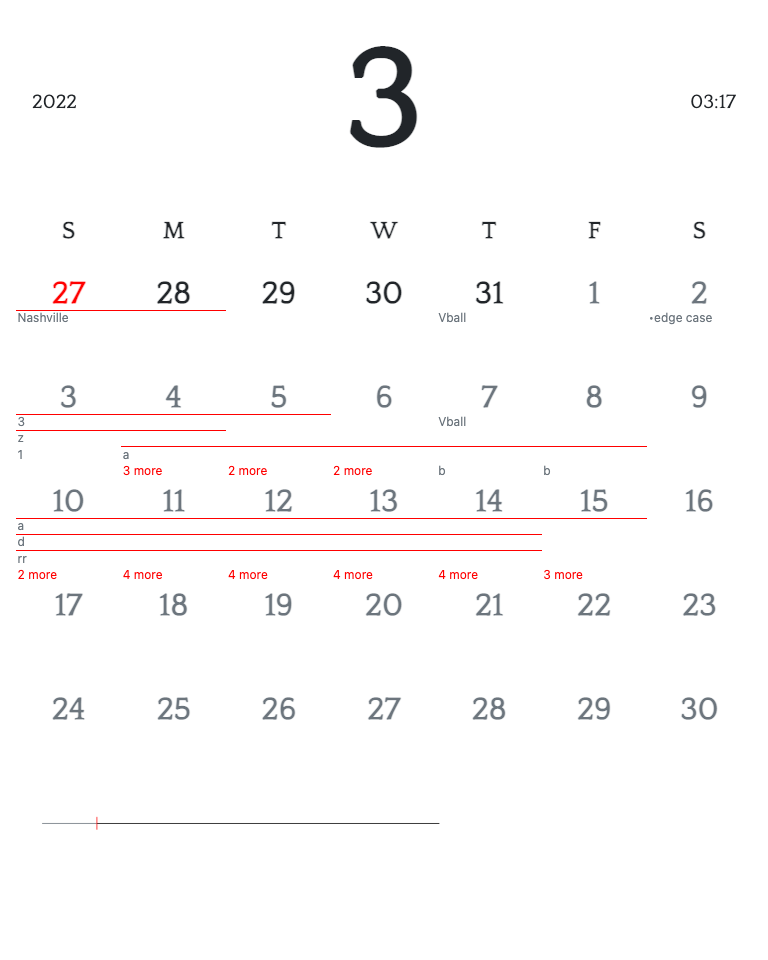
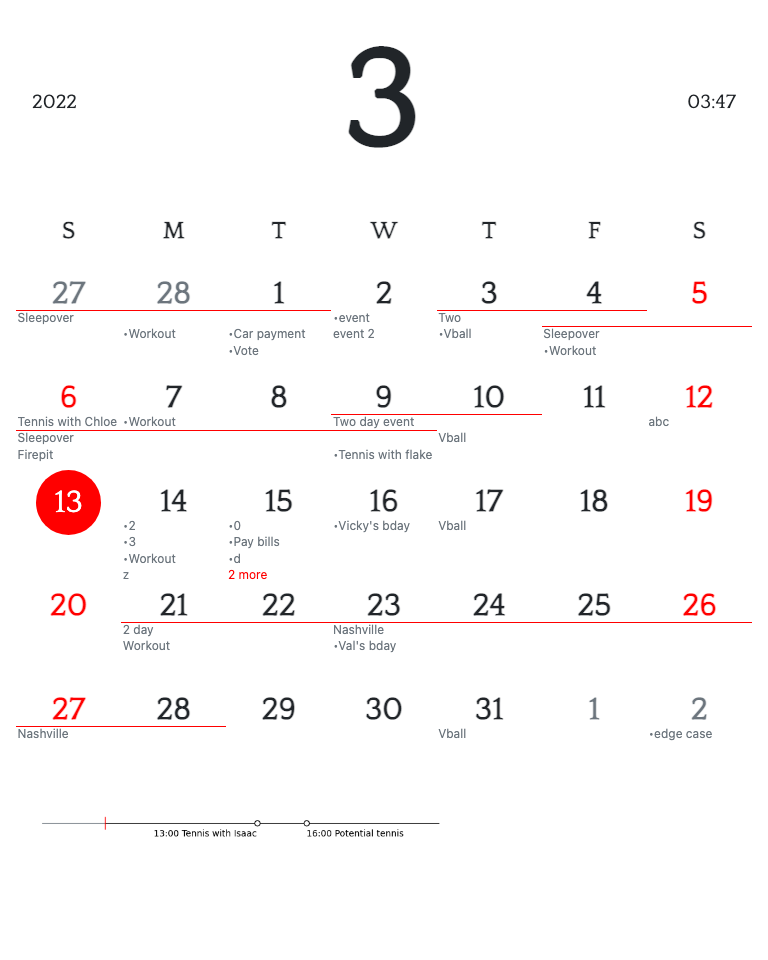
render 5 weeks and the sunday previous to the 1st of the month

diff --git a/render/calendar.html b/render/calendar.html
@@ -13,130 +13,175 @@
              style="display:flex;justify-content:space-between;">
             <div class="time-info">2022</div>
             <h3 class="month font-weight-bold mb-0 text-uppercase">3</h3>
-            <div class="time-info">03:17</div>
+            <div class="time-info">03:47</div>
         </div>
         <!-- Days of week -->
-        <ol class="day-names list-unstyled text-center"><li class="font-weight-bold text-uppercase">S</li>
-<li class="font-weight-bold text-uppercase">M</li>
-<li class="font-weight-bold text-uppercase">T</li>
-<li class="font-weight-bold text-uppercase">W</li>
-<li class="font-weight-bold text-uppercase">T</li>
-<li class="font-weight-bold text-uppercase">F</li>
-<li class="font-weight-bold text-uppercase">S</li>
-</ol>
+        <ol class="day-names list-unstyled text-center">
+            <li class="font-weight-bold text-uppercase">S</li>
+            <li class="font-weight-bold text-uppercase">M</li>
+            <li class="font-weight-bold text-uppercase">T</li>
+            <li class="font-weight-bold text-uppercase">W</li>
+            <li class="font-weight-bold text-uppercase">T</li>
+            <li class="font-weight-bold text-uppercase">F</li>
+            <li class="font-weight-bold text-uppercase">S</li>
+        </ol>
         <!-- Calendar and events -->
-        <ol class="days list-unstyled"><li><div class="date" style="color:red;">27</div>
-<div class="event" style="border-top:1px solid red;">Nashville</div>
-</li>
-<li><div class="date">28</div>
-<div class="event text-hidden" style="border-top:1px solid red;">Nashville</div>
-</li>
-<li><div class="date">29</div>
-</li>
-<li><div class="date">30</div>
-</li>
-<li><div class="date">31</div>
-<div class="event">Vball</div>
-</li>
-<li><div class="date text-muted">1</div>
-</li>
-<li><div class="date text-muted">2</div>
-<div class="event text-muted">•edge case</div>
-</li>
-<li><div class="date text-muted">3</div>
-<div class="event" style="border-top:1px solid red;">3</div>
-<div class="event" style="border-top:1px solid red;">z</div>
-<div class="event text-muted">1</div>
-</li>
-<li><div class="date text-muted">4</div>
-<div class="event text-hidden" style="border-top:1px solid red;">3</div>
-<div class="event text-hidden" style="border-top:1px solid red;">z</div>
-<div class="event text-muted" style="border-top:1px solid red;">a</div>
-<div class="event" style="color:red;">3 more</li>
-<li><div class="date text-muted">5</div>
-<div class="event text-hidden" style="border-top:1px solid red;">3</div>
-<div class="event hide-all">spacer</div>
-<div class="event text-hidden" style="border-top:1px solid red;">a</div>
-<div class="event" style="color:red;">2 more</li>
-<li><div class="date text-muted">6</div>
-<div class="event hide-all">spacer</div>
-<div class="event hide-all">spacer</div>
-<div class="event text-hidden" style="border-top:1px solid red;">a</div>
-<div class="event" style="color:red;">2 more</li>
-<li><div class="date text-muted">7</div>
-<div class="event text-muted">Vball</div>
-<div class="event hide-all">spacer</div>
-<div class="event text-hidden" style="border-top:1px solid red;">a</div>
-<div class="event">b</div>
-</li>
-<li><div class="date text-muted">8</div>
-<div class="event hide-all">spacer</div>
-<div class="event hide-all">spacer</div>
-<div class="event text-hidden" style="border-top:1px solid red;">a</div>
-<div class="event">b</div>
-</li>
-<li><div class="date text-muted">9</div>
-</li>
-<li><div class="date text-muted">10</div>
-<div class="event" style="border-top:1px solid red;">a</div>
-<div class="event" style="border-top:1px solid red;">d</div>
-<div class="event" style="border-top:1px solid red;">rr</div>
-<div class="event" style="color:red;">2 more</li>
-<li><div class="date text-muted">11</div>
-<div class="event text-hidden" style="border-top:1px solid red;">a</div>
-<div class="event text-hidden" style="border-top:1px solid red;">d</div>
-<div class="event text-hidden" style="border-top:1px solid red;">rr</div>
-<div class="event" style="color:red;">4 more</li>
-<li><div class="date text-muted">12</div>
-<div class="event text-hidden" style="border-top:1px solid red;">a</div>
-<div class="event text-hidden" style="border-top:1px solid red;">d</div>
-<div class="event text-hidden" style="border-top:1px solid red;">rr</div>
-<div class="event" style="color:red;">4 more</li>
-<li><div class="date text-muted">13</div>
-<div class="event text-hidden" style="border-top:1px solid red;">a</div>
-<div class="event text-hidden" style="border-top:1px solid red;">d</div>
-<div class="event text-hidden" style="border-top:1px solid red;">rr</div>
-<div class="event" style="color:red;">4 more</li>
-<li><div class="date text-muted">14</div>
-<div class="event text-hidden" style="border-top:1px solid red;">a</div>
-<div class="event text-hidden" style="border-top:1px solid red;">d</div>
-<div class="event text-hidden" style="border-top:1px solid red;">rr</div>
-<div class="event" style="color:red;">4 more</li>
-<li><div class="date text-muted">15</div>
-<div class="event text-hidden" style="border-top:1px solid red;">a</div>
-<div class="event hide-all">spacer</div>
-<div class="event hide-all">spacer</div>
-<div class="event" style="color:red;">3 more</li>
-<li><div class="date text-muted">16</div>
-</li>
-<li><div class="date text-muted">17</div>
-</li>
-<li><div class="date text-muted">18</div>
-</li>
-<li><div class="date text-muted">19</div>
-</li>
-<li><div class="date text-muted">20</div>
-</li>
-<li><div class="date text-muted">21</div>
-</li>
-<li><div class="date text-muted">22</div>
-</li>
-<li><div class="date text-muted">23</div>
-</li>
-<li><div class="date text-muted">24</div>
-</li>
-<li><div class="date text-muted">25</div>
-</li>
-<li><div class="date text-muted">26</div>
-</li>
-<li><div class="date text-muted">27</div>
-</li>
-<li><div class="date text-muted">28</div>
-</li>
-<li><div class="date text-muted">29</div>
-</li>
-<li><div class="date text-muted">30</div>
-</li>
+        <ol class="days list-unstyled">
+            <li>
+                <div class="date text-muted">27</div>
+                <div class="event" style="border-top:1px solid red;">Sleepover</div>
+            </li>
+            <li>
+                <div class="date text-muted">28</div>
+                <div class="event text-hidden" style="border-top:1px solid red;">Sleepover</div>
+                <div class="event text-muted">•Workout</div>
+            </li>
+            <li>
+                <div class="date">1</div>
+                <div class="event text-hidden" style="border-top:1px solid red;">Sleepover</div>
+                <div class="event">•Car payment</div>
+                <div class="event">•Vote</div>
+            </li>
+            <li>
+                <div class="date">2</div>
+                <div class="event">•event</div>
+                <div class="event">event 2</div>
+            </li>
+            <li>
+                <div class="date">3</div>
+                <div class="event" style="border-top:1px solid red;">Two</div>
+                <div class="event">•Vball</div>
+            </li>
+            <li>
+                <div class="date">4</div>
+                <div class="event text-hidden" style="border-top:1px solid red;">Two</div>
+                <div class="event" style="border-top:1px solid red;">Sleepover</div>
+                <div class="event">•Workout</div>
+            </li>
+            <li>
+                <div class="date" style="color:red;">5</div>
+                <div class="event hide-all">spacer</div>
+                <div class="event text-hidden" style="border-top:1px solid red;">Sleepover</div>
+            </li>
+            <li>
+                <div class="date" style="color:red;">6</div>
+                <div class="event">Tennis with Chloe</div>
+                <div class="event" style="border-top:1px solid red;">Sleepover</div>
+                <div class="event">Firepit</div>
+            </li>
+            <li>
+                <div class="date">7</div>
+                <div class="event">•Workout</div>
+                <div class="event text-hidden" style="border-top:1px solid red;">Sleepover</div>
+            </li>
+            <li>
+                <div class="date">8</div>
+                <div class="event hide-all">spacer</div>
+                <div class="event text-hidden" style="border-top:1px solid red;">Sleepover</div>
+            </li>
+            <li>
+                <div class="date">9</div>
+                <div class="event" style="border-top:1px solid red;">Two day event</div>
+                <div class="event text-hidden" style="border-top:1px solid red;">Sleepover</div>
+                <div class="event">•Tennis with flake</div>
+            </li>
+            <li>
+                <div class="date">10</div>
+                <div class="event text-hidden" style="border-top:1px solid red;">Two day event</div>
+                <div class="event">Vball</div>
+            </li>
+            <li>
+                <div class="date">11</div>
+            </li>
+            <li>
+                <div class="date" style="color:red;">12</div>
+                <div class="event">abc</div>
+            </li>
+            <li>
+                <div class="datecircle">13</div>
+            </li>
+            <li>
+                <div class="date">14</div>
+                <div class="event">•2</div>
+                <div class="event">•3</div>
+                <div class="event">•Workout</div>
+                <div class="event">z</div>
+            </li>
+            <li>
+                <div class="date">15</div>
+                <div class="event">•0</div>
+                <div class="event">•Pay bills</div>
+                <div class="event">•d</div>
+                <div class="event" style="color:red;">2 more</div>
+            </li>
+            <li>
+                <div class="date">16</div>
+                <div class="event">•Vicky's bday</div>
+            </li>
+            <li>
+                <div class="date">17</div>
+                <div class="event">Vball</div>
+            </li>
+            <li>
+                <div class="date">18</div>
+            </li>
+            <li>
+                <div class="date" style="color:red;">19</div>
+            </li>
+            <li>
+                <div class="date" style="color:red;">20</div>
+            </li>
+            <li>
+                <div class="date">21</div>
+                <div class="event" style="border-top:1px solid red;">2 day</div>
+                <div class="event">Workout</div>
+            </li>
+            <li>
+                <div class="date">22</div>
+                <div class="event text-hidden" style="border-top:1px solid red;">2 day</div>
+            </li>
+            <li>
+                <div class="date">23</div>
+                <div class="event" style="border-top:1px solid red;">Nashville</div>
+                <div class="event">•Val's bday</div>
+            </li>
+            <li>
+                <div class="date">24</div>
+                <div class="event text-hidden" style="border-top:1px solid red;">Nashville</div>
+            </li>
+            <li>
+                <div class="date">25</div>
+                <div class="event text-hidden" style="border-top:1px solid red;">Nashville</div>
+            </li>
+            <li>
+                <div class="date" style="color:red;">26</div>
+                <div class="event text-hidden" style="border-top:1px solid red;">Nashville</div>
+            </li>
+            <li>
+                <div class="date" style="color:red;">27</div>
+                <div class="event" style="border-top:1px solid red;">Nashville</div>
+            </li>
+            <li>
+                <div class="date">28</div>
+                <div class="event text-hidden" style="border-top:1px solid red;">Nashville</div>
+            </li>
+            <li>
+                <div class="date">29</div>
+            </li>
+            <li>
+                <div class="date">30</div>
+            </li>
+            <li>
+                <div class="date">31</div>
+                <div class="event">Vball</div>
+            </li>
+            <li>
+                <div class="date text-muted">1</div>
+            </li>
+            <li>
+                <div class="date text-muted">2</div>
+                <div class="event text-muted">•edge case</div>
+            </li>
 </ol>
         <div style="height:210px;margin-top:-5rem;position:absolute;">
             <img src="timeline.png" style='height: 100%; object-fit: cover'>

diff --git a/maginkcal.py b/maginkcal.py
@@ -74,11 +74,14 @@ def main():
         current_time = currDatetime.strftime("%H:%M")
         logger.info("Time synchronised to {}".format(currDatetime))
         currDate = currDatetime.date()
-        calStartDate = currDate - \
-                       dt.timedelta(days=((currDate.weekday() + (7 - weekStartDay)) % 7))
+        current_month_date = dt.datetime(currDate.year, currDate.month, 1).date()
+        calStartDate = current_month_date - dt.timedelta(days=((current_month_date.weekday() + (7 - weekStartDay)) % 7))
         calEndDate = calStartDate + dt.timedelta(days=(weeks_to_display * 7 - 1))
-        calStartDate = dt.datetime(2022, 3, 27).date()
-        calEndDate = dt.datetime(2022, 4, 30).date()
+
+        # Dates used for testing ##########################
+        # calStartDate = dt.datetime(2022, 3, 27).date()  #
+        # calEndDate = dt.datetime(2022, 4, 30).date()    #
+        ###################################################
         calStartDatetime = displayTZ.localize(
             dt.datetime.combine(calStartDate, dt.datetime.min.time()))
         calEndDatetime = displayTZ.localize(
@@ -99,7 +102,8 @@ def main():
                     str(dt.datetime.now() - start))
 
         # Populate dictionary with information to be rendered on e-ink display
-        calDict = {'events': enumerated_event_list, 'calStartDate': calStartDate, 'calEndDate': calEndDate, 'today': currDate, 'lastRefresh': currDatetime,
+        calDict = {'events': enumerated_event_list, 'calStartDate': calStartDate, 'calEndDate': calEndDate,
+                   'today': currDate, 'lastRefresh': currDatetime,
                    'batteryDisplayMode': batteryDisplayMode,
                    'dayOfWeekText': dayOfWeekText, 'weekStartDay': weekStartDay, 'maxEventsPerDay': maxEventsPerDay,
                    'is24hour': is24hour, "current_time": current_time, "weeks_to_display": weeks_to_display}

diff --git a/render/render.py b/render/render.py
@@ -9,18 +9,20 @@ calendar and refreshing of the eInk display. In the future, I might choose to ge
 RPi device, while using a ESP32 or PiZero purely to just retrieve the image from a file host and update the screen.
 """
 
+import datetime
 import logging
 import pathlib
 from datetime import timedelta
+from operator import itemgetter
 from time import sleep
+
+import pytz
 from PIL import Image
 from selenium import webdriver
 from selenium.webdriver.chrome.options import Options
+
 from render.timeline import Timeline
-from operator import itemgetter
 from utils.block_list import BlockList
-import datetime
-import pytz
 
 
 class RenderHelper:
@@ -239,14 +241,13 @@ class RenderHelper:
                 cal_events_text += f"""<div class="event">{calList[i][-1]['summary']}</div>\n"""
             elif len(calList[i]) > maxEventsPerDay + 1:
                 cal_events_text += '<div class="event" style="color:red;">' + str(
-                    len(calList[i]) - maxEventsPerDay) + ' more'
+                    len(calList[i]) - maxEventsPerDay) + ' more</div>\n'
 
             cal_events_text += '</li>\n'
 
         # Append the bottom and write the file
         print(calList)
         # print(timeline_events)
-        timeline_events = []
         Timeline(timeline_events).render()
         htmlFile = open(self.currPath + '/calendar.html', "w")
         htmlFile.write(calendar_template.format(month=month_name, dayOfWeek=cal_days_of_week,

diff --git a/README.md b/README.md
@@ -8,7 +8,8 @@
 - [x] Fix ordering of multiday events in calendar view
 - [x] If four events in a day, don't show 3 events and a 1more event overflow, display all 4 instead
 - [ ] If multiday event is on maxevents + 1 of previous, the current event gets displayed on the maxevent + 1 line
-
+- [ ] If multiday event spans across weeks, it takes the lane of the previous week, which isn't consistent with how gcal
+  handles it
 ## UI
 
 ### Calendar
